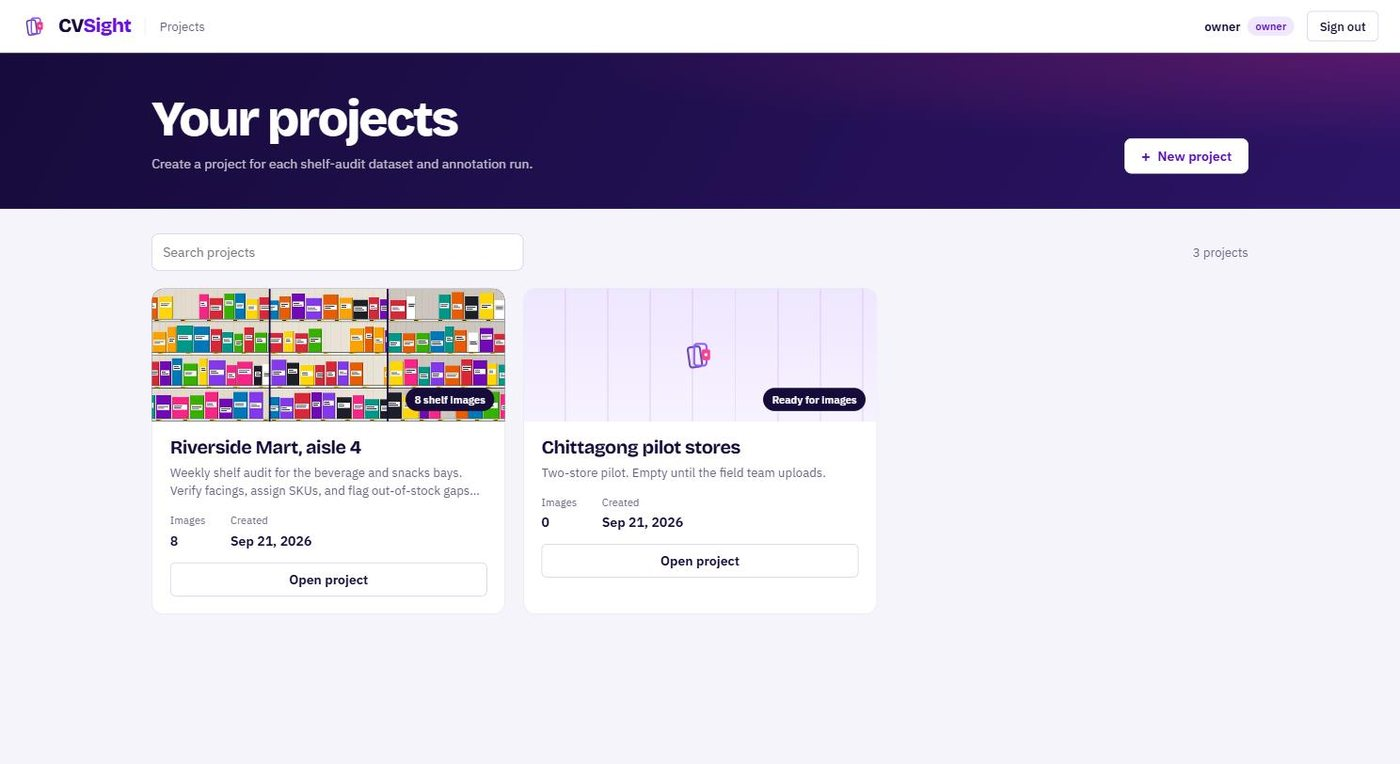
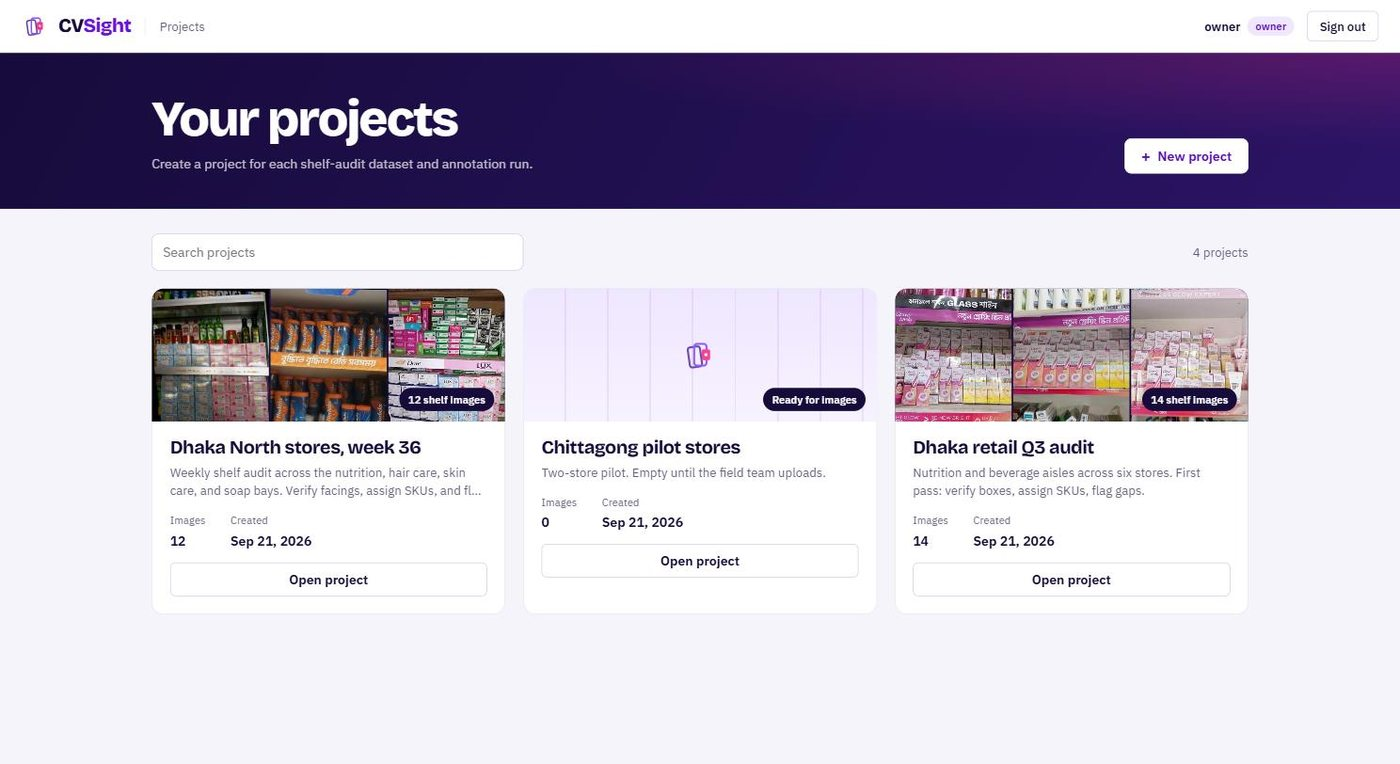
Use real shelf captures in the README screenshots
The five screenshots now come from a project seeded with field captures from
the shelf audit collection, plus two images from the QPDS-Seg dataset whose
ground-truth facings populate the verify and assign frames with real SKU names.

Verified and propagated overlays get saturated strokes at 2 px: the near-white
verified stroke tuned for the old dark chrome was invisible over bright
packaging on the light canvas.

diff --git a/frontend/src/styles.css b/frontend/src/styles.css
@@ -68,9 +68,9 @@
   --danger: var(--magenta);
   --info: #38bdf8;
   --ov-unverified: #22d3ee;
-  --ov-verified: #e9e4ff;
-  --ov-verified-op: 0.6;
-  --ov-propagated: #b794ff;
+  --ov-verified: #16c784;
+  --ov-verified-op: 0.92;
+  --ov-propagated: #8b5cf6;
   --ov-flagged: #ffc53d;
   --ov-selected: #ffffff;
   --ov-selected-fill-op: 0.08;
@@ -79,7 +79,7 @@
   --ov-halo: #0e0c14;
   --ov-halo-op: 0.65;
   --ov-halo-w: 4px;
-  --ov-core-w: 1.5px;
+  --ov-core-w: 2px;
   --ov-dim-op: 0.35;
   --glass-surface: var(--ws-panel);
   --glass-surface-strong: var(--ws-panel);

diff --git a/README.md b/README.md
@@ -6,8 +6,8 @@ PostgreSQL connectivity, and an Alembic migration path.
 
 ## Interface
 
-The shelf photos below are synthetic renders used for the demo project, so the
-screenshots contain no store imagery.
+The shelf photos below are field captures from the CVSight shelf audit program. The
+annotated frames use ground-truth facings from the QPDS-Seg dataset.
 
 Projects dashboard. Each tile previews the project's first shelf photos.
 
@@ -22,8 +22,8 @@ Images. Upload shelf photos, filter by labeling state, and open one for annotati
 
 ![Project images grid with status chips](docs/screenshots/images.jpg)
 
-Verify boxes. Model proposals, verified facings, flagged boxes, and gaps sit on the
-canvas with a decision panel and keyboard shortcuts.
+Verify boxes. Verified facings in mint, proposals in dashed cyan, and flagged boxes in
+yellow sit on the canvas with a decision panel and keyboard shortcuts.
 
 ![Verify boxes workspace with a selected facing](docs/screenshots/verify-boxes.jpg)
 
